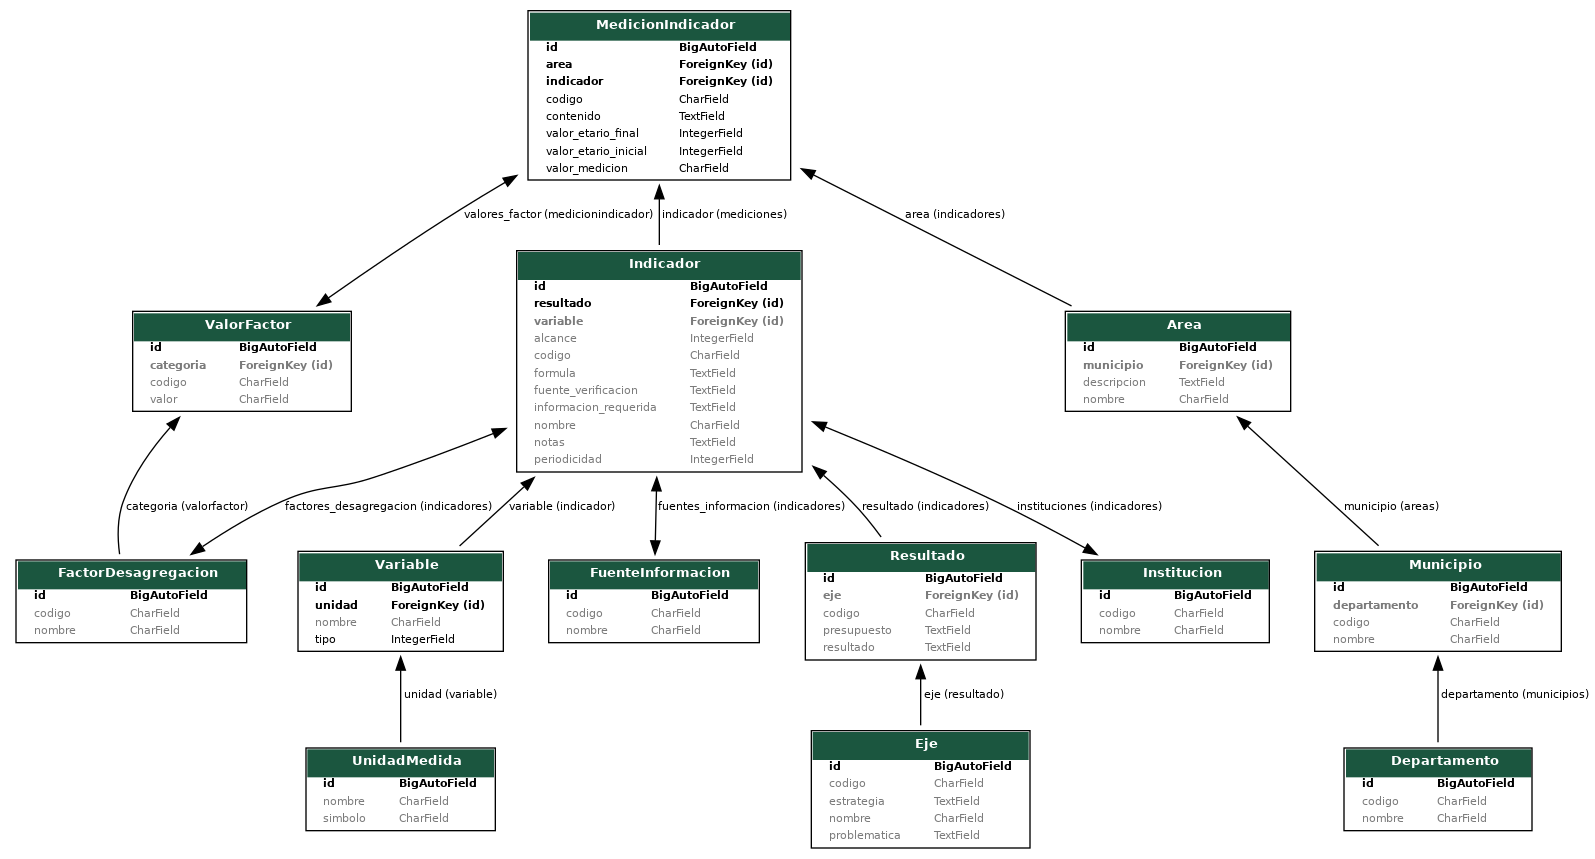
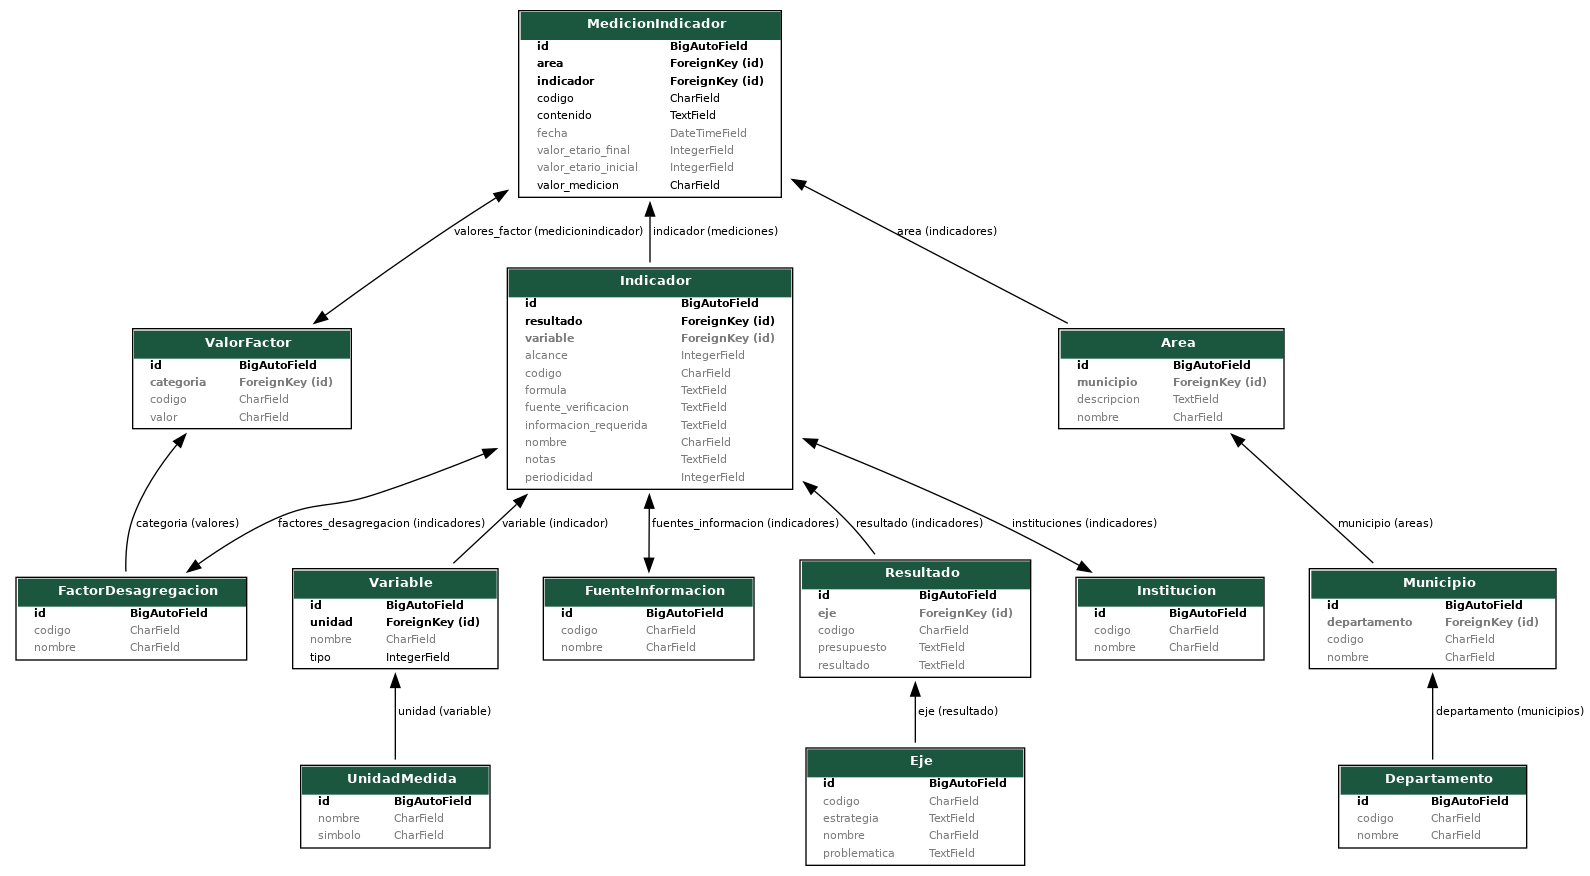
modelo medidor fecha

diff --git a/visorspass/visor/models.py b/visorspass/visor/models.py
@@ -125,7 +125,8 @@ class MedicionIndicador(models.Model):
     valor_medicion = models.CharField('Valor de Medicion', max_length=50)
     valor_etario_inicial = models.IntegerField(("Valor Etario Inicial"),blank=True, null=True)
     valor_etario_final = models.IntegerField(("Valor Etario Final"),blank=True, null=True)
-    
+    fecha = models.DateTimeField(("Fecha"), auto_now=False, auto_now_add=False,blank=True, null=True)
+
     class Meta:
         verbose_name = 'Medicion de Indicador'
  

diff --git a/visorspass/visor/migrations/0011_medicionindicador_fecha.py b/visorspass/visor/migrations/0011_medicionindicador_fecha.py
@@ -1,0 +1,18 @@
+# Generated by Django 3.2.5 on 2021-09-04 19:07
+
+from django.db import migrations, models
+
+
+class Migration(migrations.Migration):
+
+    dependencies = [
+        ('visor', '0010_auto_20210830_1628'),
+    ]
+
+    operations = [
+        migrations.AddField(
+            model_name='medicionindicador',
+            name='fecha',
+            field=models.DateTimeField(blank=True, null=True, verbose_name='Fecha'),
+        ),
+    ]
